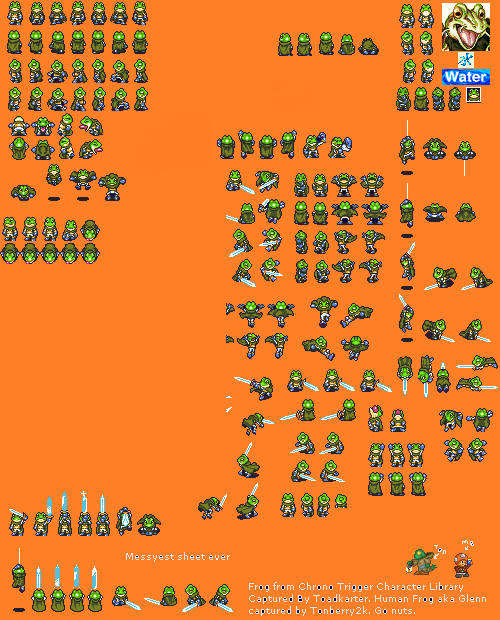
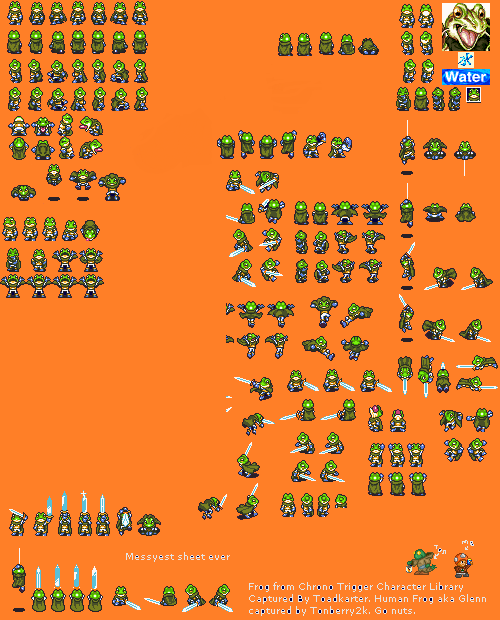
slippy boss mostly works
Death animation/freeze could use work

Changed region(s): [[0.0, 0.3677, 0.21, 0.4903], [0.57, 0.2758, 0.78, 0.3371]]

diff --git a/projects/final_project/characters/Slippy.java b/projects/final_project/characters/Slippy.java
@@ -48,7 +48,7 @@ public class Slippy {
         nearPlayer.linkCollisionCallback(Slippy::slippynearPlayer);
         slippy.addComponent(nearPlayer);
 
-        HealthComponent healthComponent = new HealthComponent(7);
+        HealthComponent healthComponent = new HealthComponent(10); //TODO Change hp so fair difficulty
         healthComponent.linkDeathCallback(Slippy::onDeathCallback);
         slippy.addComponent(healthComponent);
 
@@ -143,6 +143,12 @@ public class Slippy {
 
         AGNode N_death = new AGAnimation("death", death);
 
+        AnimationComponent summon = new SpriteAnimationComponent(FinalGame.getSpritePath("slippy"),
+                spriteOffset, new Vec2d(1.7,1.9), 4, new Vec2d(0,248), new Vec2d(26,24),
+                new Vec2d(26,0), .6);
+
+        AGNode N_summon = new AGAnimation("summon", summon);
+
 
 
         AGAnimationGroup idle = new AGAnimationGroup("idle",
@@ -170,8 +176,13 @@ public class Slippy {
                 new Vec2d[]{new Vec2d(0,1)});
         walk.setInterruptible(false);
 
+        AGAnimationGroup summonAG = new AGAnimationGroup("summon",
+                new AGNode[]{N_summon},
+                new Vec2d[]{new Vec2d(0,1)});
+        walk.setInterruptible(false);
 
-        AGNode[] animationNodes = new AGNode[]{idle, walk, spit, stompAG, deathAG};
+
+        AGNode[] animationNodes = new AGNode[]{idle, walk, spit, stompAG, deathAG, summonAG};
         AnimationGraphComponent agc = new AnimationGraphComponent(animationNodes);
 
         return agc;
@@ -215,7 +226,7 @@ public class Slippy {
     private static class SlippyMovementComponent extends Component {
 
         private Vec2d direction = new Vec2d(0,0);
-        private double speed, time = 2, spitCooldown = 0.6;
+        private double speed, time = 2, spitCooldown = 0.6, summonCooldown = 1.5;
 
         private String state = "idle"; // idle, follow, prep, spit, stomp
 
@@ -241,6 +252,7 @@ public class Slippy {
 
             time -= dt;
             spitCooldown -= dt;
+            summonCooldown -= dt;
 
             if(this.state.equals("idle")){
                 if(time <= 0) {//Randomly pick a new direction every 2 seconds.
@@ -279,9 +291,13 @@ public class Slippy {
                 Vec2d delta = this.player.getTransform().position.minus(this.gameObject.getTransform().position);
                 this.direction = delta.normalize();
                 if(time < 0){
-                    int pickAttack = ThreadLocalRandom.current().nextInt(0, 2);
+                    int pickAttack = ThreadLocalRandom.current().nextInt(0, 3);
                     if(pickAttack == 0) {
                         this.state = "spit";
+                        time = 3;
+                    }
+                    else if(pickAttack == 1) {
+                        this.state = "summon";
                         time = 3;
                     }
                     else {
@@ -328,11 +344,28 @@ public class Slippy {
                         }
                     }
                 }
-
                 dx = 0;
                 dy = 0;
             }
-            //TODO summon goomba.
+            else if(this.state.equals("summon")){
+                if(summonCooldown <= 0) {
+
+                    if(summonCooldown <= 0.5) {
+                        Vec2d playerDirection = player.getTransform().position.minus(this.gameObject.getTransform().position).normalize();
+
+                        Enemies.placeGoomba(gameWorld, this.gameObject.getTransform().position.plus(playerDirection.smult(2)));
+                    }
+                    summonCooldown = 1.5;
+                }
+                if(time <= 0) {
+                    this.state = "idle";
+                    this.player = null;
+                }
+
+                this.animationGraphComponent.queueAnimation("summon");
+                dx = 0;
+                dy = 0;
+            }
 
 
             this.animationGraphComponent.updateState(new Vec2d[]{this.direction});
